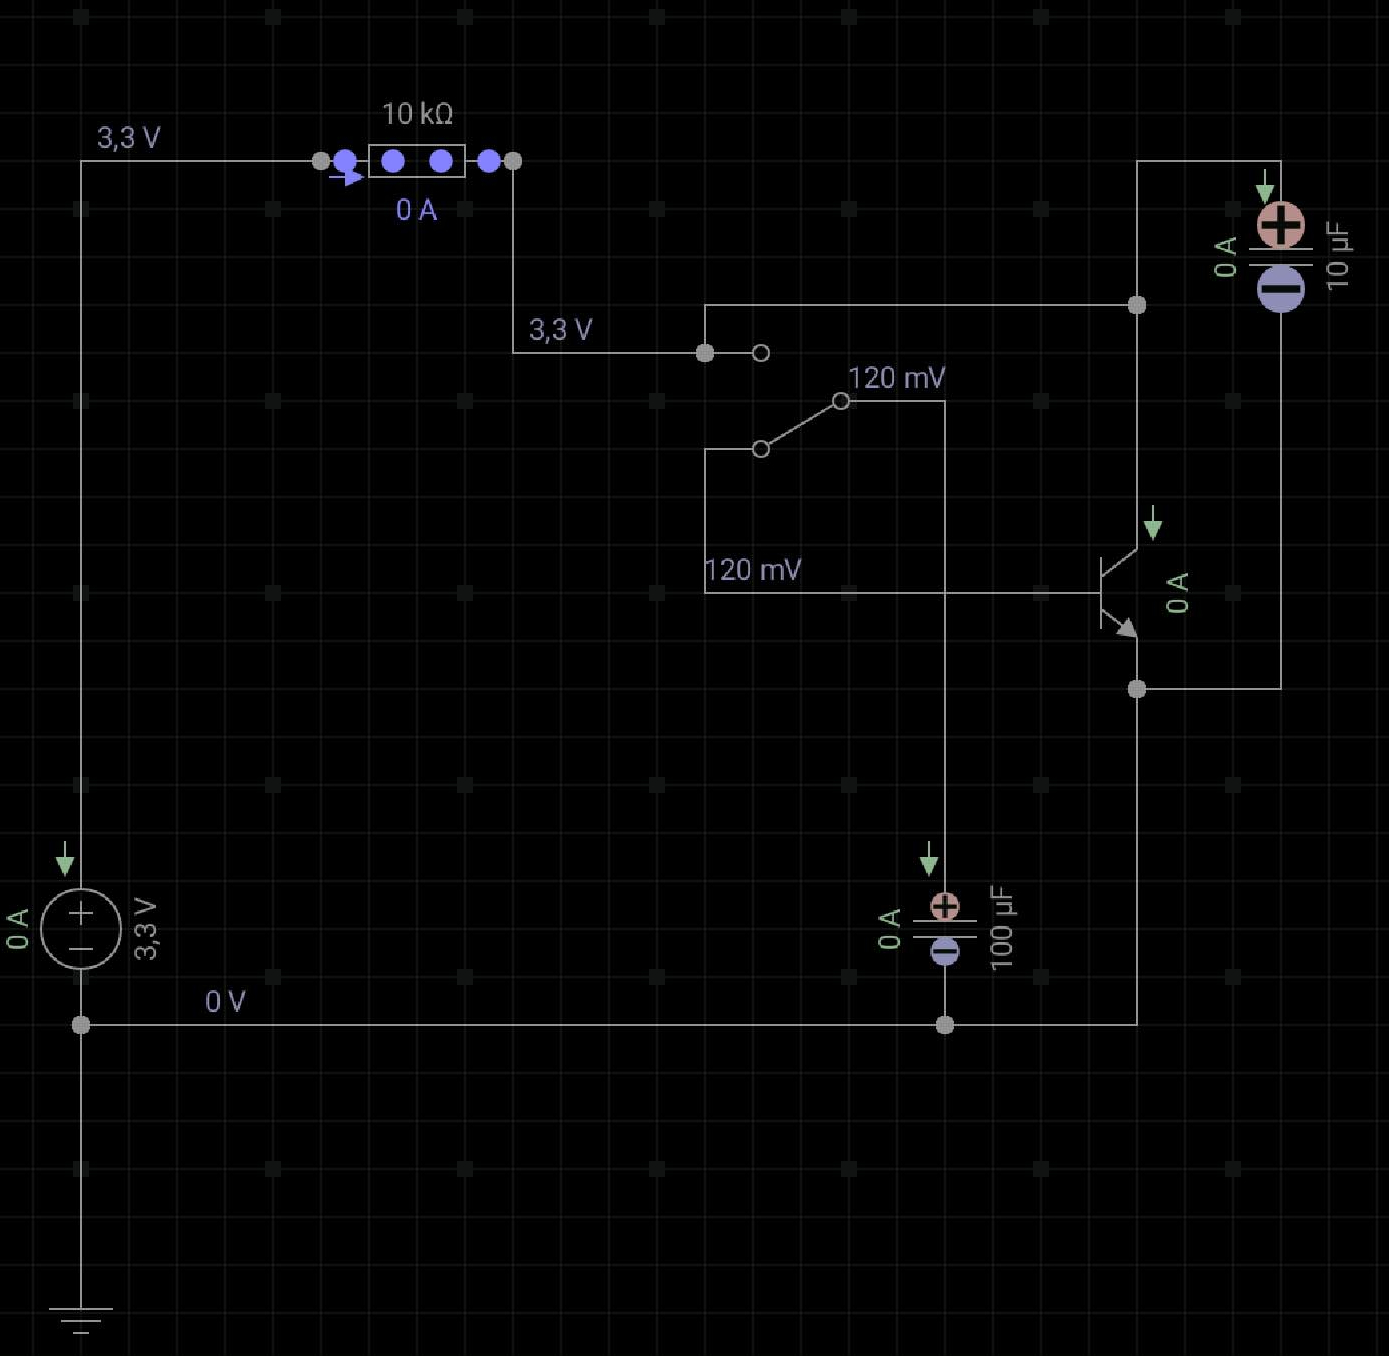
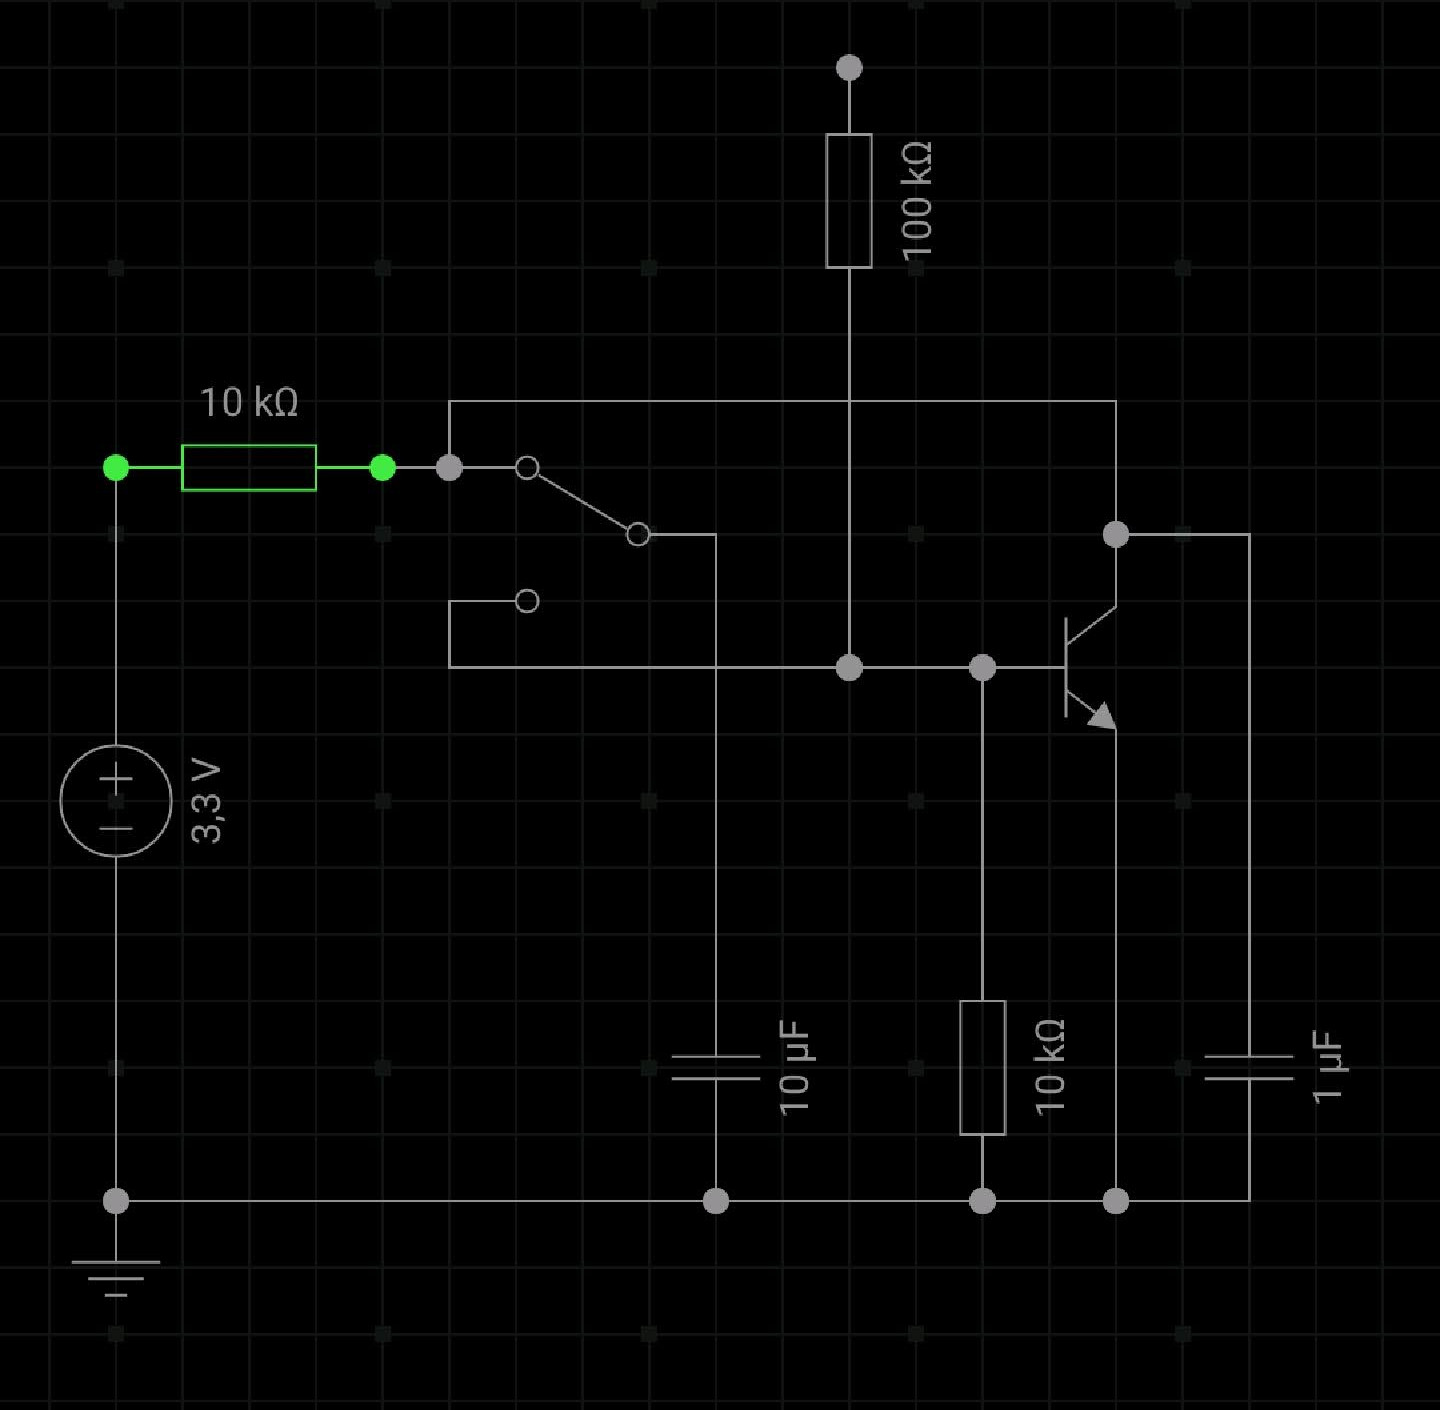
Update the circuit according to latest findings

diff --git a/src/main.cpp b/src/main.cpp
@@ -43,7 +43,7 @@ void setup() {
     WiFiReset();
     wifi_set_channel(wifi_channel);
     WiFi.mode(WIFI_STA);
-    WiFi.setOutputPower(20.5);
+    WiFi.setOutputPower(20.5f);
 
     if (esp_now_init() != 0) {
         return;
@@ -76,8 +76,11 @@ void setup() {
     EEPROM.commit();
     EEPROM.end();
 #else
-    // ToDo: add instructions where to connect pin 3 to
+    // Connect pin 3 to the 100K resistor shown in the circuit. The resistor is needed, because the capacitor would be
+    // charged during boot
     pinMode(3U, INPUT);
+    //  The delay is needed to ensure that the capacitor is discharged. The delay depends on the value of the capacitors
+    delay(std::chrono::milliseconds(250U).count());
     switch_status.status = !(digitalRead(3U) == HIGH);
 #endif
 }
